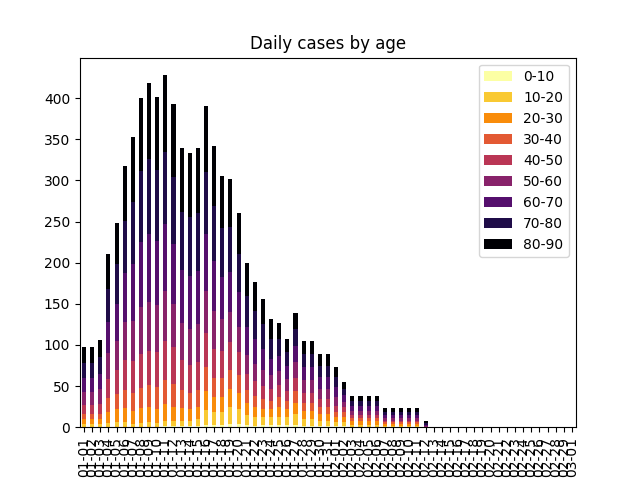
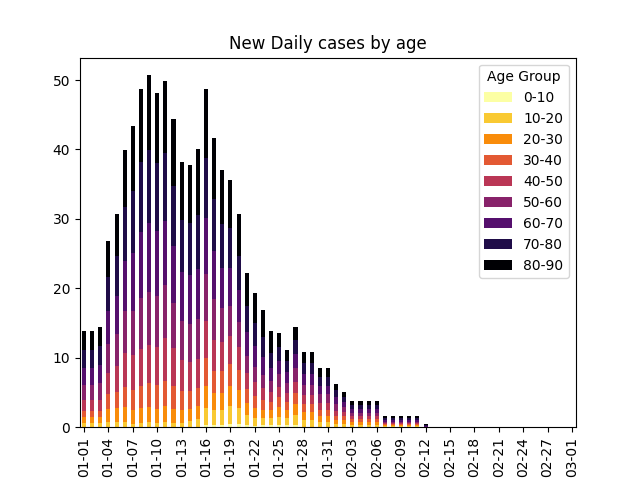
Tidied age stratified plotting (#125)

diff --git a/python_examples/age_stratified_example/age_stratified_plot.py b/python_examples/age_stratified_example/age_stratified_plot.py
@@ -221,7 +221,7 @@ class Plotter():
         if param_file:
             title = 'New ' + title
         plt.title(title)
-        plt.gca().legend().set_title('')
+        plt.gca().legend().set_title('Age Group')
         plt.xlabel("Time")
         plt.savefig(outfile)
 
